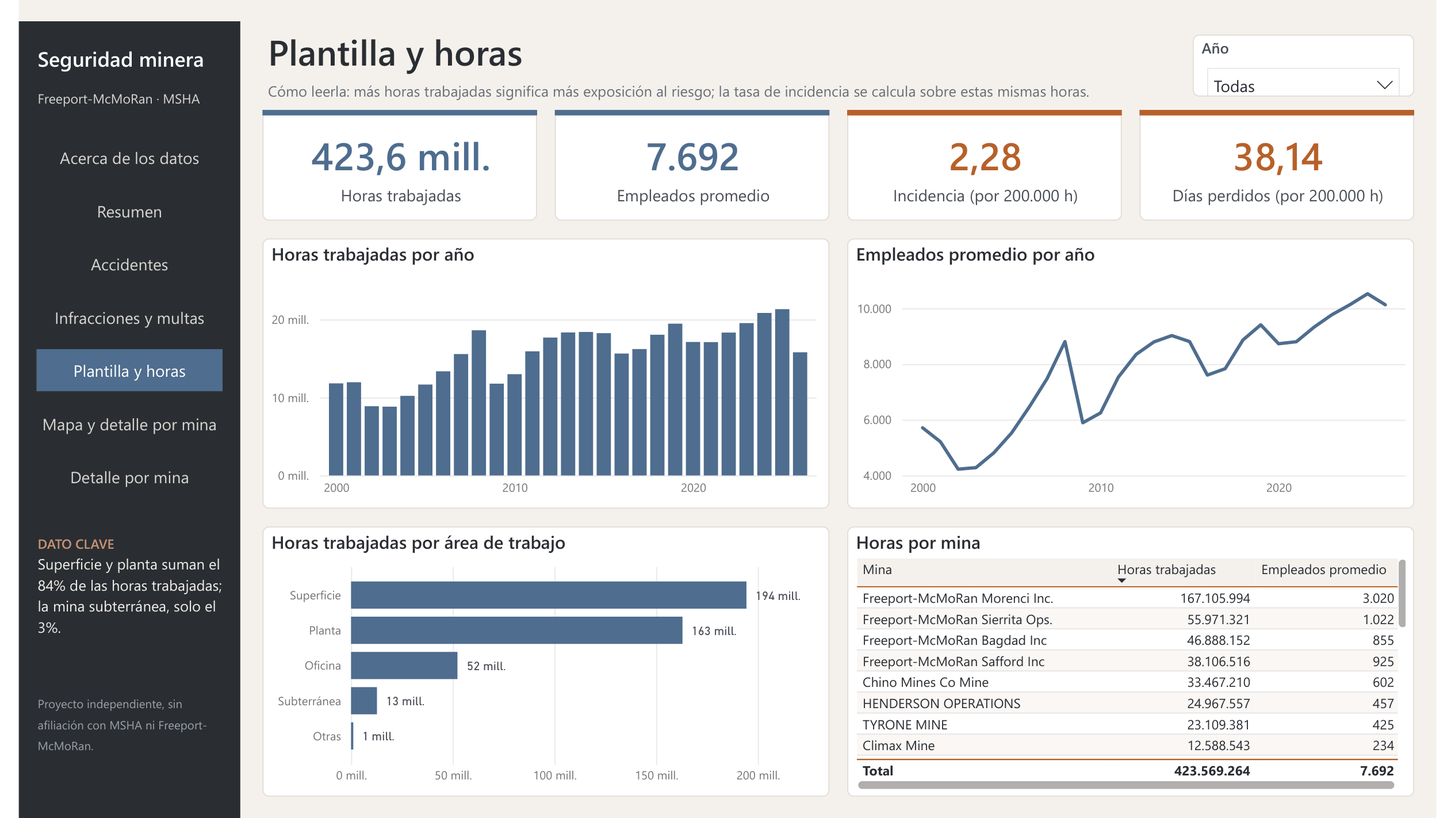
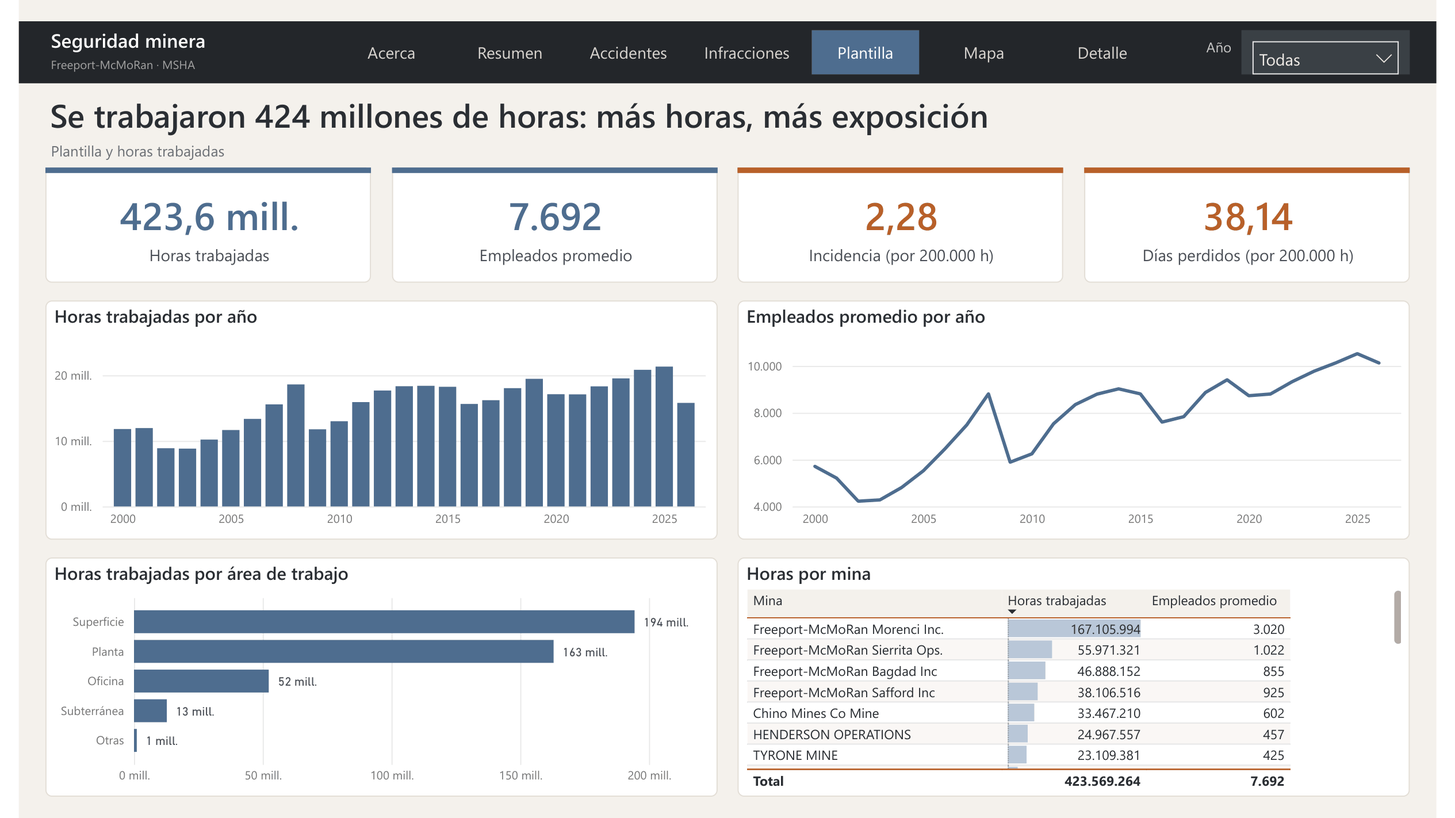
Docs and captures for the redesigned report
New screenshots (all years and 2024), README (EN/ES) with the top bar,
dynamic titles, mine card and searchable slicer, prototype link, 74
measures, decisions 29-30, DAX table, data model, guide and video script.
Blank-safe detail cards, year slicer that keeps the trend charts whole.

diff --git a/README.md b/README.md
@@ -18,14 +18,14 @@ A reproducible analytics project on **real public data**: workforce hours, accid
 | Dimensional modeling (star schema, junk dimension, grains) | [`docs/data_model.md`](docs/data_model.md), [`sql/02_dwh_tables.sql`](sql/02_dwh_tables.sql) |
 | T-SQL ETL: staging, typed load, `TRY_CONVERT`, reload in one transaction | [`sql/03_etl.sql`](sql/03_etl.sql) |
 | SQL Server in Docker, `BULK INSERT`, indexes, reporting views, least-privilege login | [`docker-compose.yml`](docker-compose.yml), [`sql/`](sql) |
-| Power BI as code (PBIP + TMDL), parameters, hierarchies, 66 DAX measures | [`powerbi/`](powerbi), [`docs/dax_measures.md`](docs/dax_measures.md) |
+| Power BI as code (PBIP + TMDL), parameters, hierarchies, 74 DAX measures | [`powerbi/`](powerbi), [`docs/dax_measures.md`](docs/dax_measures.md) |
 | Data profiling and honest limits | [`docs/data_profile.md`](docs/data_profile.md), [`docs/decisions.md`](docs/decisions.md) |
 | Automated tests (unit, SQL reconciliation) and CI | [`tests/`](tests), [`.github/workflows/ci.yml`](.github/workflows/ci.yml) |
 | Reproducible pipeline (download, filter, load) | [`scripts/`](scripts) |
 
 ## Dashboard
 
-Seven report pages (the map needs Power BI's map visuals enabled in *File → Options → Security*): **About the data** (source, scope, definitions and limits), **Summary**, **Accidents**, **Violations and penalties**, **Workforce and hours**, **Map and mine detail** and **Mine detail** (one mine at a time). Each page has a one-line reading guide, a key figure in the sidebar and, with a single year selected, KPI cards that show the change against the previous year. A side menu moves between pages and one year filter is synced across all of them. A short video will be added later.
+Seven report pages: **About the data** (source, scope, definitions and limits), **Summary**, **Accidents**, **Violations and penalties**, **Workforce and hours**, **Map** and **Detail** (one mine at a time). A dark top bar holds the page navigator and one year filter that is synced across all pages. Each page title is a measure that states the finding and recomputes with the filters (for example *In 2024 the injury rate was 2.3, lower than in 2023 (2.9)*), and with a single year selected the KPI cards show the change against the previous year; the yearly trend charts keep the full series. On the map page a click on a bubble or a table row fills the mine card; on *Detail* the mine slicer has a built-in search box (type to filter). The map needs Power BI's map visuals enabled in *File → Options → Security*. The design was prototyped first as an interactive HTML page: [`docs/prototipo_visual.html`](docs/prototipo_visual.html) (download it and open it in a browser). A short video will be added later.
 
 ![Summary page](docs/img/01-resumen.png)
 
@@ -33,9 +33,9 @@ Seven report pages (the map needs Power BI's map visuals enabled in *File → Op
 |---|---|
 | ![About the data](docs/img/00-acerca-de-los-datos.png) | ![Accidents](docs/img/02-accidentes.png) |
 | ![Violations and penalties](docs/img/03-infracciones-multas.png) | ![Workforce and hours](docs/img/04-plantilla-horas.png) |
-| ![Map and mine detail](docs/img/05-mapa-detalle-mina.png) | ![Mine detail](docs/img/06-detalle-por-mina.png) |
+| ![Map](docs/img/05-mapa-detalle-mina.png) | ![Detail of one mine (Morenci)](docs/img/06-detalle-por-mina.png) |
 
-With one year selected (2024) the cards show the change against the previous year:
+With one year selected (2024) the title, the cards and the ranking follow it:
 
 ![Summary for 2024](docs/img/01-resumen-2024.png)
 
@@ -51,11 +51,11 @@ Headline measure: **injury incidence rate per 200,000 hours worked**, own staff 
 |---|---|---|---|
 | **About the data** | Where does the data come from and what does it mean? | Source, scope, three definitions and the limits. | 43 mines, 6,654 accidents, 19,046 violations and 424 million hours. |
 | **Summary** | What is the overall picture? | Four cards on top; below, the trend by year and the severity. With one year selected, each card shows the change against the previous year. | The incidence rate fell from 3.6 (2008) to 1.9 (2009) per 200,000 hours; in 2024 it was 2.26. |
-| **Accidents** | How severe and of what kind? | Bars run from most to least frequent; gray is what is grouped as "other". | 15 fatalities since 2000 (6, 6 and 3 per decade); 2,502 lost-time cases; 22.3% of accidents involve contractors. |
+| **Accidents** | How severe and of what kind? | The 5 most frequent types and body parts; gray is what is grouped as "other"; work areas are one 100% bar. | 15 fatalities since 2000 (6, 6 and 3 per decade); 2,502 lost-time cases; 22.3% of accidents involve contractors. |
 | **Violations and penalties** | What was breached and how much was paid? | Columns = violations; the line is the rate per 100 inspection hours. | 18.9% of violations are significant and substantial; standard 56.20003(a) is cited 948 times; penalties paid: US$ 12.2 million. |
 | **Workforce and hours** | How much exposure to risk was there? | More hours means more exposure; the rate is computed on these hours. | Surface and plant add up to 84% of the 424 million hours. |
-| **Map and mine detail** | Where are the mines and which weigh most? | Each bubble is a mine: size = accidents, color = status. | Morenci holds 44% of the accidents (2,958 of 6,654). |
-| **Mine detail** | How did one particular mine do? | Pick a mine in the filter; with none picked, the 43 are added up. | Example: Climax Mine, 230 accidents and 976 violations. |
+| **Map** | Where are the mines and which weigh most? | Each bubble is a mine: size = accidents, color = status. Click a bubble or a row for the mine card; the chips filter by status. | Morenci holds 44% of the accidents (2,958 of 6,654). |
+| **Detail** | How did one particular mine do? | Type or pick a mine in the filter; with none picked, the 43 are added up. | Example: Morenci, 2,958 accidents and 6,330 violations. |
 
 Every figure comes from a query against the `rpt` views and matches the table in [`docs/dax_measures.md`](docs/dax_measures.md). To understand the project in depth (Spanish): [`docs/guia_para_entender.md`](docs/guia_para_entender.md).
 
@@ -121,7 +121,7 @@ sql/       database, staging, star schema, ETL, views, indexes, security, load s
 powerbi/   PBIP project (TMDL model + PBIR report with the Copper Mining theme)
 assets/    banner and the SVG art of the report (map outline, source badges; `scripts/make_report_art.py`)
 tests/     unit tests, SQL assertions, fixtures
-docs/      data model, profile, decisions, DAX measures, video script
+docs/      data model, profile, decisions, DAX measures, video script, interactive HTML prototype
 ```
 
 ## License

diff --git a/docs/decisions.md b/docs/decisions.md
@@ -35,9 +35,11 @@ Each item says what was decided and why. Items marked **verify** are assumptions
 20. **Spanish captions, English sources.** Table and column names in the report are Spanish; `sourceColumn` keeps the English warehouse names.
 21. `scripts/validate_pbip.py` checks that every `sourceColumn` exists in the DDL, every relationship and DAX reference exists, and every visual field exists. It cannot replace opening the project in Power BI Desktop.
 22. **Native map (2026-11-21).** *Map and mine detail* uses the Power BI map visual (Bing base map, zoom, bubble per mine, size = square root of accidents, color by status through a measure). It needs *File → Options → Security → map and filled map visuals* to be enabled in Desktop (and by the tenant admin when published); the data sent to the map service is the public coordinates of the mines. The map is filtered to mines that have coordinates, otherwise mines without them are drawn at 0,0 and the map zooms out to the whole world. Earlier versions used a scatter over a hand-drawn SVG outline of AZ, NM and CO (`scripts/make_report_art.py` still draws it, now only used for the source badges).
-23. **One theme, one year filter.** The `Copper Mining` theme is registered in the report and styles titles, backgrounds and borders for every visual; the sidebar, the page navigator and the header are the same on all six pages. The year slicer belongs to one sync group, so choosing a year on one page filters the others.
+23. **One theme, one year filter.** The `Copper Mining` theme is registered in the report and styles titles, backgrounds and borders for every visual; the navigation and the header are the same on all pages (the sidebar of this item became the top bar of item 29). The year slicer belongs to one sync group, so choosing a year on one page filters the others.
 24. **One company, one source (2026-11-21).** The report tells one story: MSHA as the publisher and the 43 mines controlled by Freeport-McMoRan. The Chile copper price and production context (Cochilco) was removed from scripts, SQL, model, report and tests: it covered other companies and never connected to the safety data. Four accident dimensions that no page showed (occupation, nature of injury, activity, equipment) were removed too. Kept on purpose: `dim_company` (it explains years in which another controller ran a mine) and `fact_inspection` (used in *Violations and penalties*). The raw MSHA files still hold the dropped columns, so a dimension can come back from `accidents.csv`.
 25. **Spanish at the source (2026-11-21).** Report labels are translated in `sql/03_etl.sql` (`*_es` columns in `dim_mine`, `dim_work_area`, `dim_violation_profile`, `dim_accident_type`, `dim_body_part`), not visual by visual. The MSHA text and codes are kept; in Power BI the visible column points at the Spanish one and the original is a hidden column named `(MSHA, inglés)`. DAX that filters on a MSHA value (for example `S&S = "Yes"`) must use the hidden column. Accident types and body parts also have a *top* column (7 most frequent by count, the rest as *Otros tipos* / *Otras partes*, shown in gray) so charts need no scrolling; the ranking is computed at load time. `tests/sql/06_translations.sql` fails when a new MSHA code has no translation.
 26. **About page and source badges (2026-11-21).** Page 0 documents the source (MSHA), the universe (43 Freeport-McMoRan mines) and the definitions. The badges are own-style SVG with the names in text; no official logos or seals are used (the MSHA seal is a government insignia and Freeport-McMoRan is a registered mark), and the page repeats the no-affiliation notice.
 27. **Gotcha: a table called `Mina` must be quoted in DAX.** `Mina[col]` is parsed as the `MINA()` function and fails with "syntax incorrect"; write `'Mina'[col]`. Per-point colors need a `dataViewWildcard` selector (`matchingOption: 1`); without it a color measure is evaluated once for the whole series.
 28. **Variation badges, key figures and the detail page (2026-11-21).** KPI cards carry a small card above the value with the change against the previous year (text and color are measures, so they follow the year filter). The key figure in each sidebar is a static sentence computed from SQL on the stored snapshot (rate per year, fatalities per decade, S&S share, hours by area, Morenci share): refresh it when the MSHA snapshot changes. A page tooltip and a drill-through page were tried and removed: Desktop did not pick up the tooltip page and the drill filter did not reach the visuals; the default tooltips of the map and the ranking show infractions, hours and rate instead, and *Mine detail* uses a Mina slicer. Alt text and a reading-order tab sequence are set on every visual.
+29. **Approved redesign (2026-11-21).** The report was rebuilt from an interactive HTML prototype (`docs/prototipo_visual.html`): a dark top bar with a horizontal page navigator replaces the sidebar (the static key-figure box of item 28 is gone; the title now carries the finding), one 1232 px grid on every page, and page titles that are measures. A title is shown through a borderless `actionButton` whose text is bound to a measure (a text box cannot bind to data). Severity is grouped into 4 in the warehouse (`degree_group_es`), category charts are limited with visual-level Top N filters (a rank measure based on `ALLSELECTED` inside the visual returned 8 rows instead of 5, because the shadow filter only holds the categories the visual already returns), the work areas are one 100% stacked bar, tables use data bars, the year slicer does not filter the yearly trend charts (visual interactions `NoFilter`), the map uses the grayscale base map, the mine card is a measure that follows the selection, and the *Detail* slicer has the built-in search (`selfFilterEnabled`). Not done on purpose: sparklines inside the cards, a field parameter to switch type / body part, an average line on the combo chart, and highlighting the selected year inside the trends.
+30. **Checking measures without Desktop's UI.** With Power BI Desktop open, the local Analysis Services port accepts read-only DAX queries and `$SYSTEM.TMSCHEMA_MEASURES` (columns `State` and `ErrorMessage`); that is how reserved-word variables (`by`, `top`) and blank results were found. Hand-written PBIR fails silently, so every new visual type was first created once in Desktop, saved, and its JSON copied.

diff --git a/README.es.md b/README.es.md
@@ -13,13 +13,13 @@ Proyecto reproducible con **datos públicos reales**: horas trabajadas, accident
 | Modelado dimensional (estrella, dimensión basura, granos) | [`docs/data_model.md`](docs/data_model.md), [`sql/02_dwh_tables.sql`](sql/02_dwh_tables.sql) |
 | ETL en T-SQL con staging y carga tipada | [`sql/03_etl.sql`](sql/03_etl.sql) |
 | SQL Server en Docker, `BULK INSERT`, índices, vistas y usuario de solo lectura | [`docker-compose.yml`](docker-compose.yml), [`sql/`](sql) |
-| Power BI como código (PBIP + TMDL), parámetros, jerarquías y 66 medidas DAX | [`powerbi/`](powerbi), [`docs/dax_measures.md`](docs/dax_measures.md) |
+| Power BI como código (PBIP + TMDL), parámetros, jerarquías y 74 medidas DAX | [`powerbi/`](powerbi), [`docs/dax_measures.md`](docs/dax_measures.md) |
 | Perfilado de datos y límites explicados | [`docs/data_profile.md`](docs/data_profile.md), [`docs/decisions.md`](docs/decisions.md) |
 | Pruebas automáticas y CI | [`tests/`](tests), [`.github/workflows/ci.yml`](.github/workflows/ci.yml) |
 
 ## Informe
 
-Siete páginas (el mapa requiere activar los visuales de mapa en *Archivo → Opciones → Seguridad*): **Acerca de los datos** (fuente, universo, definiciones y límites), **Resumen**, **Accidentes**, **Infracciones y multas**, **Plantilla y horas**, **Mapa y detalle por mina** y **Detalle por mina** (una mina a la vez). Cada página trae una línea de «cómo leerla», un dato clave en la barra lateral y, con un solo año elegido, tarjetas que muestran la variación frente al año anterior. Un menú lateral lleva de una página a otra y un filtro de año se sincroniza entre todas. Un video corto vendrá más adelante.
+Siete páginas: **Acerca de los datos** (fuente, universo, definiciones y límites), **Resumen**, **Accidentes**, **Infracciones y multas**, **Plantilla y horas**, **Mapa** y **Detalle** (una mina a la vez). Una barra superior oscura trae el navegador de páginas y un filtro de año sincronizado entre todas. El título de cada página es una medida que enuncia el hallazgo y se recalcula con los filtros (por ejemplo *En 2024 la tasa de lesiones fue 2,3, más baja que en 2023 (2,9)*); con un solo año elegido las tarjetas muestran la variación frente al año anterior y los gráficos por año conservan la serie completa. En la página del mapa, un clic en una burbuja o en una fila rellena la ficha de la mina; en *Detalle*, el filtro de mina trae un cuadro de búsqueda (escribe para filtrar). El mapa requiere activar los visuales de mapa en *Archivo → Opciones → Seguridad*. El diseño se probó primero como página HTML interactiva: [`docs/prototipo_visual.html`](docs/prototipo_visual.html) (descárgala y ábrela en un navegador). Un video corto vendrá más adelante.
 
 ![Página Resumen](docs/img/01-resumen.png)
 
@@ -27,9 +27,9 @@ Siete páginas (el mapa requiere activar los visuales de mapa en *Archivo → Op
 |---|---|
 | ![Acerca de los datos](docs/img/00-acerca-de-los-datos.png) | ![Accidentes](docs/img/02-accidentes.png) |
 | ![Infracciones y multas](docs/img/03-infracciones-multas.png) | ![Plantilla y horas](docs/img/04-plantilla-horas.png) |
-| ![Mapa y detalle por mina](docs/img/05-mapa-detalle-mina.png) | ![Detalle por mina](docs/img/06-detalle-por-mina.png) |
+| ![Mapa](docs/img/05-mapa-detalle-mina.png) | ![Detalle de una mina (Morenci)](docs/img/06-detalle-por-mina.png) |
 
-Con un solo año elegido (2024) las tarjetas muestran la variación frente al año anterior:
+Con un solo año elegido (2024) el título, las tarjetas y el ranking lo siguen:
 
 ![Resumen con 2024](docs/img/01-resumen-2024.png)
 
@@ -45,11 +45,11 @@ Medida principal: **tasa de incidencia de lesiones por 200.000 horas trabajadas*
 |---|---|---|---|
 | **Acerca de los datos** | ¿De dónde salen los datos y qué significan? | Fuente, universo, tres definiciones y los límites. | 43 minas, 6.654 accidentes, 19.046 infracciones y 424 millones de horas. |
 | **Resumen** | ¿Cuál es el panorama? | Cuatro tarjetas arriba; abajo, la evolución por año y la gravedad. Con un año elegido, cada tarjeta muestra la variación contra el año anterior. | La tasa de incidencia pasó de 3,6 (2008) a 1,9 (2009) por 200.000 horas; en 2024 fue 2,26. |
-| **Accidentes** | ¿Qué tan graves y de qué tipo? | Las barras van de más a menos frecuente; en gris, lo agrupado como «otros». | 15 fatalidades desde 2000 (6, 6 y 3 por década); 2.502 casos con tiempo perdido; 22,3% de los accidentes involucra contratistas. |
+| **Accidentes** | ¿Qué tan graves y de qué tipo? | Los 5 tipos y partes más frecuentes; en gris, lo agrupado como «otros»; las áreas de trabajo son una sola barra al 100%. | 15 fatalidades desde 2000 (6, 6 y 3 por década); 2.502 casos con tiempo perdido; 22,3% de los accidentes involucra contratistas. |
 | **Infracciones y multas** | ¿Qué incumplimientos hubo y cuánto se pagó? | Columnas = infracciones; la línea es la tasa por cada 100 horas de inspección. | 18,9% de las infracciones son significativas y sustanciales; la norma 56.20003(a) se cita 948 veces; multa pagada: US$ 12,2 millones. |
 | **Plantilla y horas** | ¿Cuánta exposición al riesgo hubo? | Más horas significa más exposición; la tasa se calcula sobre estas horas. | Superficie y planta suman el 84% de las 424 millones de horas. |
-| **Mapa y detalle por mina** | ¿Dónde están y cuáles pesan más? | Cada burbuja es una mina: tamaño = accidentes, color = estado. | Morenci concentra el 44% de los accidentes (2.958 de 6.654). |
-| **Detalle por mina** | ¿Cómo le fue a una mina en particular? | Elige una mina en el filtro; sin elegir, se suman las 43. | Ejemplo: Climax Mine, 230 accidentes y 976 infracciones. |
+| **Mapa** | ¿Dónde están y cuáles pesan más? | Cada burbuja es una mina: tamaño = accidentes, color = estado. Un clic en una burbuja o fila abre la ficha; los botones filtran por estado. | Morenci concentra el 44% de los accidentes (2.958 de 6.654). |
+| **Detalle** | ¿Cómo le fue a una mina en particular? | Escribe o elige una mina en el filtro; sin elegir, se suman las 43. | Ejemplo: Morenci, 2.958 accidentes y 6.330 infracciones. |
 
 Cada cifra sale de una consulta a las vistas `rpt` y cuadra con la tabla de [`docs/dax_measures.md`](docs/dax_measures.md). Para entender el proyecto a fondo: [`docs/guia_para_entender.md`](docs/guia_para_entender.md).
 

diff --git a/docs/pendientes_esteticos.md b/docs/pendientes_esteticos.md
@@ -3,12 +3,12 @@
 Lo funcional está primero; esto es lo que quedó sin pulir a propósito.
 
 - [x] Aplicar el tema `CopperMining` (vive en `powerbi/MiningOperationsSafety.Report/StaticResources/RegisteredResources/` y está registrado en `report.json`).
-- [x] Cabecera común en cada página: título y subtítulo con el rango de años. Falta el logo (`assets/logo_placeholder.svg`).
-- [x] Nota "proyecto independiente, sin afiliación" al pie de la barra lateral. Si usas logos oficiales (Freeport-McMoRan, MSHA), ojo: son marcas o sellos con restricciones de uso.
-- [x] Navegación entre las 6 páginas: barra lateral con el *Navegador de páginas* (en Desktop se navega con Ctrl+clic).
+- [x] Barra superior común con marca, navegador y filtro de año; el título de cada página es una medida (decisión 29). Falta el logo (`assets/logo_placeholder.svg`).
+- [x] Nota "proyecto independiente, sin afiliación" en la página «Acerca de los datos». Si usas logos oficiales (Freeport-McMoRan, MSHA), ojo: son marcas o sellos con restricciones de uso.
+- [x] Navegación entre las 7 páginas: *Navegador de páginas* horizontal en la barra superior (en Desktop se navega con Ctrl+clic).
 - [x] Construir los visuales de las páginas 2 a 6 (mapa de minas como dispersión, porque Desktop trae los mapas desactivados).
 - [x] Alinear y dimensionar los visuales de *Resumen*; títulos y etiquetas en español.
-- [x] Filtro de año en las 6 páginas, sincronizado entre ellas.
+- [x] Filtro de año en todas las páginas, sincronizado; los gráficos por año conservan la serie completa.
 - [x] Textos en inglés de MSHA traducidos en el data warehouse (decisión 25).
 - [x] Página «Acerca de los datos» con insignias propias (sin logos oficiales) y mapa nativo de Power BI (requiere activar los visuales de mapa).
 - [x] Texto alternativo en cada visual y orden de tabulación lógico.
@@ -19,3 +19,5 @@ Lo funcional está primero; esto es lo que quedó sin pulir a propósito.
 - [x] README con «Qué cuenta el informe» y `docs/guia_para_entender.md`.
 - [ ] Grabar el video corto (guion actualizado en `docs/video_guion.md`) y enlazarlo en el README: lo graba Alexander y solo se publica cuando él lo decida.
 - [ ] Pendiente probado y descartado: tooltip de página y drill-through no funcionaron en Desktop (decisión 28).
+- [x] Rediseño aprobado portado a Power BI: grupos de gravedad, Top 5, barra 100% de áreas, barras de datos, mapa gris claro, ficha de la mina, búsqueda en el filtro de mina.
+- [ ] Minigráficos dentro de las tarjetas, parámetro de campo Tipo / Parte del cuerpo, línea de promedio en el combo y resaltar el año elegido dentro de las tendencias (están en el prototipo; en Power BI requieren visuales extra).

diff --git a/docs/guia_para_entender.md b/docs/guia_para_entender.md
@@ -43,7 +43,7 @@ Los otros hechos son infracciones (con su multa en la misma fila), inspecciones 
 3. `04_load_sqlserver.py` copia los CSV a tablas de texto (`stg`) con `BULK INSERT` dentro de un contenedor Docker.
 4. `dwh.usp_load_all` convierte tipos, traduce al español y arma la estrella (`dwh`), todo en una transacción.
 5. Vistas `rpt` (solo lectura, usuario `pbi_reader`): lo único que ve Power BI.
-6. El proyecto de Power BI (PBIP) lee las vistas, tiene 66 medidas DAX y 7 páginas.
+6. El proyecto de Power BI (PBIP) lee las vistas, tiene 74 medidas DAX y 7 páginas.
 
 `python scripts/run_all.py` hace los pasos 1 a 4. Las pruebas (`pytest`) comprueban que los totales cuadren entre origen, almacén y medidas.
 
@@ -88,7 +88,8 @@ Ojo con una trampa: la tabla se llama `Mina`, y en DAX `Mina[col]` se confunde c
 9. **¿Por qué el mapa es nativo y qué cuidado tiene?** Muestra burbujas sobre un mapa real con zoom; hay que filtrar a las minas con coordenadas (si no, las sin coordenadas caen en 0,0) y el administrador debe permitir los visuales de mapa.
 10. **¿Cómo manejas el año parcial?** Las tasas usan solo trimestres con horas (`has_hours_data`), y la comparación contra el año anterior usa el mismo período.
 11. **¿Cómo versionas Power BI?** Como código: PBIP con TMDL y PBIR, revisable en Git; un validador comprueba que cada columna y medida citada exista.
-12. **¿Qué mejorarías?** Incluir toneladas si hubiera fuente, comparar contra otras empresas y agregar un tooltip de página y drill-through (los probé y no funcionaron en Desktop; quedan como pendiente).
+12. **¿Qué mejorarías?** Incluir toneladas si hubiera fuente, comparar contra otras empresas y agregar minigráficos en las tarjetas y un parámetro de campo para cambiar entre tipo y parte del cuerpo (están en el prototipo HTML; el tooltip de página y el drill-through los probé y no funcionaron en Desktop).
+13. **Los títulos del informe ¿son texto fijo?** No: son medidas (`Título Resumen`, etc.) que se recalculan con el año y la mina elegidos; se muestran en un botón sin borde porque un cuadro de texto no se enlaza a datos (decisión 29).
 
 ## 9. Glosario
 

diff --git a/docs/dax_measures.md b/docs/dax_measures.md
@@ -1,6 +1,6 @@
 # DAX measures
 
-66 measures, stored in the fact tables and grouped in display folders. The source of truth is the TMDL in `powerbi/MiningOperationsSafety.SemanticModel/definition/tables/`.
+74 measures, stored in the fact tables and grouped in display folders. The source of truth is the TMDL in `powerbi/MiningOperationsSafety.SemanticModel/definition/tables/`.
 
 | Table | Folder | Measures |
 |---|---|---|
@@ -11,7 +11,8 @@
 | Infracciones | 2 Multas | Infracciones con multa, Multa propuesta, Multa vigente, Multa pagada, % de multa pagada, Multa promedio |
 | Inspecciones | Inspecciones | Inspecciones, Horas de inspección, Horas en sitio, Infracciones por 100 h de inspección |
 | Plantilla | Plantilla | Horas trabajadas, Empleados promedio, Horas por empleado |
-| Accidentes, Infracciones, Mina | 9 Presentación | Accidentes (tabla), Infracciones (tabla), Multa pagada (tabla) (show "—" instead of blanks), Accidentes (Top 10 minas), Escala de burbuja (square root of accidents), Color por estado (hex color for the map) |
+| Accidentes, Infracciones, Plantilla, Mina | 9 Presentación | Accidentes (tabla), Infracciones (tabla), Multa pagada (tabla), Horas trabajadas (tabla) (show "—" instead of blanks), Accidentes (Top 5 minas), Escala de burbuja (square root of accidents), Color por estado (hex color for the map) |
+| Accidentes, Infracciones, Plantilla, Mina | 8 Títulos | Título Resumen, Título Accidentes, Título Infracciones, Título Plantilla, Título Mapa, Título Detalle, Ficha de mina: Spanish sentences (es-CL numbers) that state the finding and recompute with the year and mine filters; each page shows one in a borderless button. Variables must not be named `by` or `top` (reserved words). |
 | Accidentes, Infracciones, Plantilla | 3 Variación | 13 pairs `Δ <medida> (texto)` / `Δ <medida> (color)`: text such as "▲ 13,4% vs 2007" and its color (red = worse, green = better, gray = neutral). Empty when no single year is selected; uses `SAMEPERIODLASTYEAR`, so a partial year is compared with the same months of the year before. |
 
 ## The main rate

diff --git a/docs/video_guion.md b/docs/video_guion.md
@@ -7,9 +7,9 @@ Antes de grabar: abre el informe con la base cargada, año = Todas, y cierra el 
 | Tiempo | Qué muestras | Qué dices |
 |---|---|---|
 | 0:00 a 0:20 | Página *Acerca de los datos* | "Analicé datos reales de seguridad minera: la fuente es MSHA, el regulador de EE. UU., y las minas son las 43 de Freeport-McMoRan, entre 2000 y 2026." |
-| 0:20 a 0:50 | Página *Resumen* | "Seis cifras cuentan el panorama: 6.654 accidentes, 19.046 infracciones y una tasa de incidencia que cayó de 3,6 en 2008 a 1,9 en 2009." Cambia el año a 2024 y señala la variación contra 2023. |
-| 0:50 a 1:20 | Páginas *Accidentes* e *Infracciones y multas* | Un hallazgo: 15 fatalidades desde 2000, o que una de cada cinco infracciones es significativa y sustancial. |
-| 1:20 a 1:50 | Página *Mapa y detalle por mina* | "Morenci concentra el 44% de los accidentes." Muestra el mapa, el top 10 y luego *Detalle por mina* con el filtro Mina. |
+| 0:20 a 0:50 | Página *Resumen* | "El título ya dice la conclusión: la tasa de lesiones cayó de 3,6 a 1,9 en 2009." Cambia el año a 2024: el título y las tarjetas se recalculan y muestran la variación contra 2023. |
+| 0:50 a 1:20 | Páginas *Accidentes* e *Infracciones* | Un hallazgo: 15 fatalidades desde 2000, o que una de cada cinco infracciones es significativa y sustancial. |
+| 1:20 a 1:50 | Páginas *Mapa* y *Detalle* | "Morenci concentra el 44% de los accidentes." Haz clic en una burbuja para ver la ficha y luego, en *Detalle*, escribe «morenci» en el filtro de mina. |
 | 1:50 a 2:15 | Repositorio: README, `docs/data_model.md` y el diagrama del flujo | "Es reproducible: descarga los datos de MSHA, los carga en SQL Server con Docker, los modela en estrella y los muestra en Power BI como código (PBIP y TMDL)." |
 | 2:15 a 2:40 | `docs/decisions.md` y una medida DAX (tasa de incidencia) | "Excluí a los contratistas porque no tengo sus horas, y no hay toneladas: lo dejé documentado." |
 | 2:40 a 3:00 | Pestaña *Actions* (CI) y `pytest` | "Tiene pruebas automáticas y CI: cuadran los totales entre el origen y el modelo." |

diff --git a/docs/data_model.md b/docs/data_model.md
@@ -41,7 +41,7 @@ erDiagram
 
 - `dim_company` is the **controller (parent company) at the time of the event**, not the current one. `is_target_company` marks the company this snapshot was built for, so the report can separate years in which a mine belonged to someone else.
 - `dim_violation_profile` is a junk dimension that groups six low-cardinality attributes (significant and substantial, negligence, likelihood, expected injury, citation type, Mine Act section) into one table.
-- `dim_injury_degree` carries three flags used by the measures: `is_fatality`, `is_lost_time` (degrees 01 to 04) and `counts_as_injury` (degrees 01 to 06).
+- `dim_injury_degree` also carries `degree_group_es` / `degree_group_sort`: the 12 MSHA degrees grouped into 4 (fatality, with lost days, without lost days, no injury or other) for the severity chart. It carries three flags used by the measures: `is_fatality`, `is_lost_time` (degrees 01 to 04) and `counts_as_injury` (degrees 01 to 06).
 - Presentation labels are Spanish (`*_es`); the MSHA text is kept next to them (decision 25).
 - Every code dimension has a `?` member, so a missing code never drops a fact row.
 - `dim_date` runs from 2000-01-01 to the end of the current year, with an MSHA fiscal year (starts 1 October) and `has_hours_data`, true for quarters up to the last one with workforce hours.

diff --git a/docs/primera_apertura_power_bi.md b/docs/primera_apertura_power_bi.md
@@ -36,7 +36,7 @@ El modelo y el informe base están escritos como código y **no se han abierto n
 
 ## Después
 
-- El tema `CopperMining` ya viene aplicado (está registrado en el informe). Las 6 páginas traen barra lateral con navegación (Ctrl+clic en Desktop), cabecera, filtro de año sincronizado y sus visuales.
+- El tema `CopperMining` ya viene aplicado (está registrado en el informe). Las 7 páginas traen barra superior con navegación (Ctrl+clic en Desktop), título dinámico, filtro de año sincronizado y sus visuales.
 - Al **guardar como proyecto PBIP**, los cambios quedan en los archivos de texto y Git los muestra (Desktop reescribe el modelo completo, así que revisa el diff antes de comitear).
 - Si editas los archivos de `powerbi/` con Desktop abierto, ciérralo con **No guardar** y vuelve a abrir el `.pbip` (Desktop no recarga solo); luego *Actualizar* para ver los datos.
 - Anota lo estético pendiente en `docs/pendientes_esteticos.md`.
